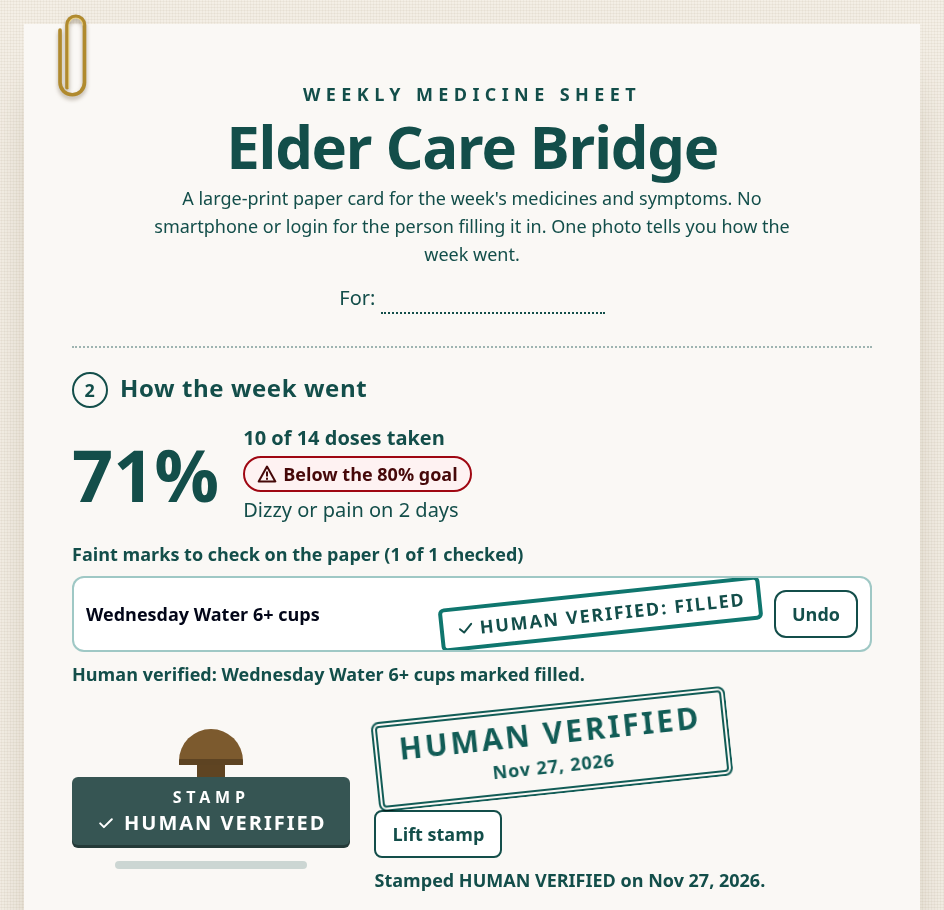
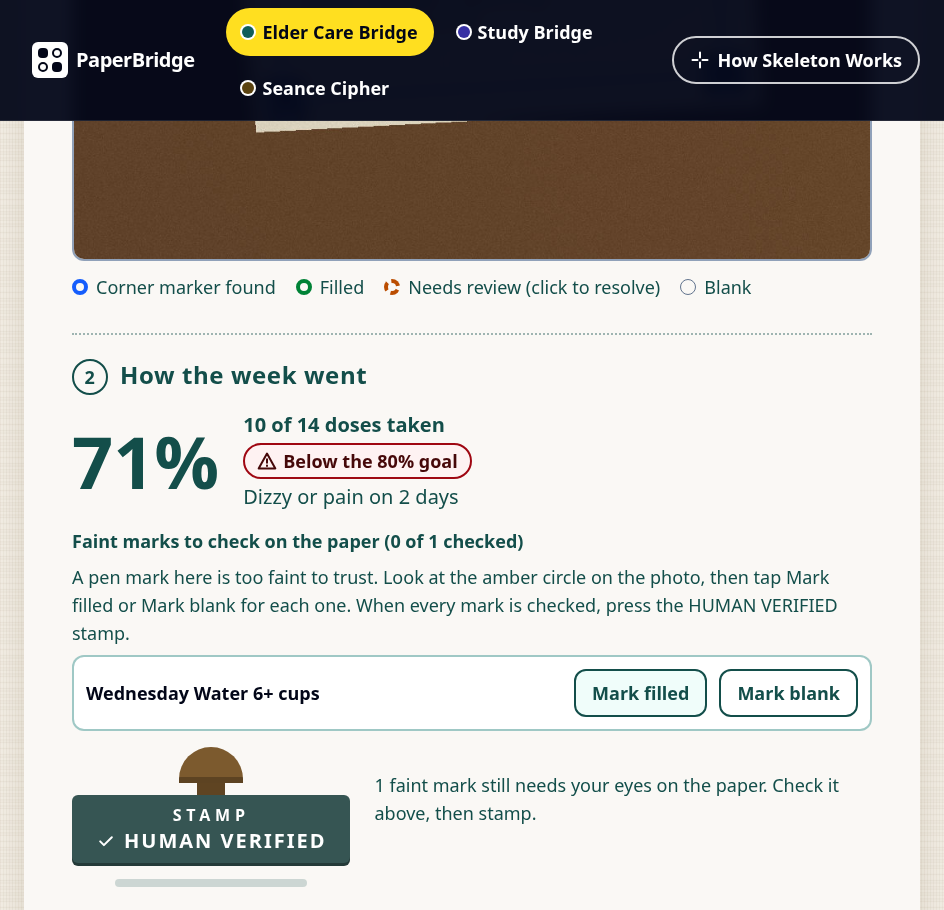
docs: first-time user audit, spec R60-R62, retaken screenshots

diff --git a/README.md b/README.md
@@ -6,6 +6,14 @@ Print a card, fill it in with a pen, take one photo. One shared optical engine r
 markers and a perspective unwarp, sends anything unclear to a person, and powers three very different full-screen
 apps plus a Kiro Crew App. Built for **Kiroween 2026: Skeleton Crew**.
 
+## The 60-second version
+
+- **The problem.** Paper forms still run clinics, classrooms and care at home. Apps that scan them either guess with AI or need special hardware.
+- **What it does.** Print a card, mark it with a pen, take one photo. PaperBridge finds the 4 corner squares, flattens the photo, and reads each bubble on your own device. No account, no upload, no extra hardware: a phone or webcam and a printer (or a sample card) is enough.
+- **Why it is not AI.** The reader is plain geometry and pixel counts, so the same photo always gives the same answer. A mark it cannot judge is shown to a person, who taps Mark filled or Mark blank. Nothing is guessed.
+- **What surprised us.** Letter prints were being read as A4 until a 50-photo test caught it. A pale fingertip reads only 0.30 to 0.45 as "covered", which became the Trembling Hand rule in the game. A first-time audit then showed that Elder Care and Study Bridge said nothing in words when a photo had no card in it (see [DETAILS](docs/DETAILS.md#first-time-user-audit-phase-13)).
+- **Kiro surfaces used.** Specs, steering, agent hooks, an MCP server, a scaffolder and a Kiro Crew App (table below).
+
 <!-- Demo video row, hidden until the video is uploaded. Paste it back into the table below the Live demo row:
 | **Demo video** | [Watch on YouTube](https://www.youtube.com/watch?v=VIDEO_ID) |
 -->
@@ -16,7 +24,7 @@ apps plus a Kiro Crew App. Built for **Kiroween 2026: Skeleton Crew**.
 | **Blog post** | [Building PaperBridge: An Offline-First Optical UI Skeleton for Elder Care with Kiro](https://dev.to/meena_n/building-paperbridge-an-offline-first-optical-ui-skeleton-for-elder-care-with-kiro-1h76) (DEV) |
 | **Social post** | [PaperBridge on X](https://x.com/MNoolu34434/status/2124436517087248756) |
 
-![Skeleton Home, the haunted drafting table: a friendly ghost guide above 3 tilted paper objects, a metal-clipped clipboard for Elder Care, a ruled school sheet with a red A+ for Study Bridge and an obsidian and gold oracle card for X-Ray Rite](docs/images/skeleton-home.png)
+![Skeleton Home, the haunted drafting table: a plain-language promise with 3 step chips, a friendly ghost guide, the amber demo button above the fold and 3 tilted paper objects, a metal-clipped clipboard for Elder Care, a ruled school sheet with a red A+ for Study Bridge and an obsidian and gold oracle card for X-Ray Rite](docs/images/skeleton-home.png)
 
 ## One skeleton, three frontends
 
@@ -30,9 +38,9 @@ All three are built from the same `src/core/` engine and the same `src/shell/` p
     <th width="33%"><a href="src/apps/seance-cipher/">Seance Cipher</a><br>X-Ray Rite, one-screen arcade</th>
   </tr>
   <tr>
-    <td><img src="docs/images/frontend-elder.png" alt="Elder Care Bridge: a single cream caregiver sheet on a linen desk with a brass paper clip, a large 71 percent result, a checked faint mark and a pressed HUMAN VERIFIED rubber stamp with its dated impression"></td>
+    <td><img src="docs/images/frontend-elder.png" alt="Elder Care Bridge: a single cream caregiver sheet on a linen desk with a brass paper clip, a large 71 percent result, a faint-mark check with a one-sentence hint naming the Mark filled and Mark blank buttons, and the HUMAN VERIFIED rubber stamp"></td>
     <td><img src="docs/images/frontend-study.png" alt="Study Bridge: ruled gradebook paper with a red margin line, red-ink score stamps, notebook tabs and pink and yellow highlighter topic bars"></td>
-    <td><img src="docs/images/frontend-seance.png" alt="X-Ray Rite: the whole game on one screen, a 3 by 4 rune launchpad with the Spider rune trembling in dashed crimson, a countdown ring, 3 lives and a ghostly status line"></td>
+    <td><img src="docs/images/frontend-seance.png" alt="X-Ray Rite: the whole game on one screen, a 3 by 4 rune launchpad with the Coffin rune trembling in dashed crimson, a countdown ring, 3 lives and a ghost coach saying to press down firmly and hold"></td>
   </tr>
   <tr>
     <td>One centred sheet of cream paper on linen, AAA contrast, with numbered fields instead of dashboard boxes. A big <b>HUMAN VERIFIED</b> rubber stamp that only works once every faint mark is checked. Print options and presets sit in a closed drawer.</td>
@@ -47,7 +55,7 @@ Seance Cipher is now an endless survival game on the same optical engine. Print 
 
 <table>
   <tr>
-    <td width="50%"><img src="docs/images/xray-rite-live.png" alt="Live webcam mode: a photographed 12-rune sheet with one rune ringed in dashed crimson, its cover reading 0.40, and a crimson timer bar"></td>
+    <td width="50%"><img src="docs/images/xray-rite-live.png" alt="Live webcam mode: a photographed 12-rune sheet with the glowing Pumpkin rune marked in gold, the 3 step chips in the HUD, a countdown ring and the ghost coach saying to cover the glowing rune"></td>
     <td width="50%"><img src="docs/images/xray-rite-sheet.png" alt="The printable X-Ray Rite 12-Rune Sheet: 12 blank circles in 3 rows of 4, each named above and drawn below"></td>
   </tr>
 </table>
@@ -59,7 +67,7 @@ Seance Cipher is now an endless survival game on the same optical engine. Print 
 ### Try it in 60 seconds (no printer needed)
 
 1. Open the [live demo](https://paperbridge-acvw.onrender.com/). On **Skeleton Home**, point at (or tab to) each paper and the ghost guide explains it. Then click **Run Mixed-Domain Auto-Route Demo**: one real card from each app is unwarped, X-Rayed and routed to its own app.
-2. Click **Seance Cipher**, then **Start the Rite**. Hold a lit rune's pad (or its key) to banish it, or tap it to feel the Trembling Hand. Let the timer run out three times for the Game Over receipt with its frozen X-Ray.
+2. Click **Seance Cipher**, then **Start the Rite**. A ghost coach tells you the next move: hold a lit rune's pad (or its key) to banish it, or tap it to feel the Trembling Hand. Let the timer run out three times for the Game Over receipt with its frozen X-Ray.
 3. Open **Elder Care Bridge**, load a sample and stamp the amber mark **Human Verified**, then print the adapted next-week card.
 4. Open **Study Bridge**, scan a quiz, then **Print Studio** for the Telugu or Hindi sheet and the quiz pack.
 
@@ -69,7 +77,7 @@ Seance Cipher is now an endless survival game on the same optical engine. Print 
 
 | Kiro feature | Where | What it does here |
 |---|---|---|
-| **Spec-driven development** | [`.kiro/specs/paperbridge/`](.kiro/specs/paperbridge/) | EARS [requirements](.kiro/specs/paperbridge/requirements.md) R1-R59, [design](.kiro/specs/paperbridge/design.md) decisions with measured numbers, and [tasks](.kiro/specs/paperbridge/tasks.md) 1-25, one task group per commit |
+| **Spec-driven development** | [`.kiro/specs/paperbridge/`](.kiro/specs/paperbridge/) | EARS [requirements](.kiro/specs/paperbridge/requirements.md) R1-R62, [design](.kiro/specs/paperbridge/design.md) decisions with measured numbers, and [tasks](.kiro/specs/paperbridge/tasks.md) 1-26, one task group per commit |
 | **Steering** | [`.kiro/steering/`](.kiro/steering/) | Always-on product rules, a `src/core/**` rule for the deterministic decoder, a `src/apps/**` rule for accessible thin apps |
 | **Agent hooks** | [`.kiro/hooks/`](.kiro/hooks/) | 5 hooks of 3 kinds: tests, sample regeneration and typecheck on save; a `PreToolUse` guard on the protected decoder; a `Stop` check for core boundaries and WCAG |
 | **MCP server** | [`mcp/`](mcp/) | Layout Validator: `validate_card_layout` and `list_registered_apps`, so Kiro checks a card before anyone prints it |
@@ -102,7 +110,7 @@ offline in the browser with no account or upload, and unclear marks go to a pers
 ```bash
 npm install
 npm run dev                                       # opens on Skeleton Home
-npm test                                          # 365 tests, including a 50-photo A4/Letter matrix
+npm test                                          # 517 tests, including a 50-photo A4/Letter matrix
 npm run create-app clinic-intake "Clinic Intake"  # your next app, ready to scan
 ```
 

diff --git a/docs/DETAILS.md b/docs/DETAILS.md
@@ -157,6 +157,22 @@ Real numbers from the simulated camera on the printed sheet: nothing on a circle
 
 The original 3-question **Oracle Cipher** card is kept in that drawer: the same 12 circles and card ID, story verdicts, the faint-mark human check, and the landing place for a card routed here from Skeleton Home. The obsidian `#0B0D12` and brass `#D4AF37` theme passes WCAG 2.2 AA.
 
+### First-time user audit (Phase 13)
+
+We opened Skeleton Home, Elder Care, Study Bridge and X-Ray Rite as a stranger would, in a real browser, and wrote down every place a smile would turn into a frown. The fixes are the highest-impact ones, each with a test. Nothing in `src/core/`, `riteEngine.ts` or the grading changed.
+
+| Friction found | Fix |
+|---|---|
+| Skeleton Home had no plain sentence about what it does, and the demo button was below the fold | A promise line ("No account, no upload, no AI guessing: anything it cannot read goes to a person"), 3 step chips (Print a card, Mark it with a pen, Snap one photo), and the demo button moved above the 3 worlds. It sits at 689 px of 900 px |
+| X-Ray Rite menu was a 110-word wall of numbers | 3 step cards (Watch the gold glow, Cover or hold the rune, Half-cover = Trembling Hand), 46 words. The exact scoring rules stay one tap away in a `<details>` |
+| A player who did nothing or only tapped got "Wave 1. Banish X. Go." | A ghost coach (`riteCoach.ts`, `CoachGhost.tsx`) with 6 moods says the exact next move for every state, with the key of each lit rune. The polite `role="status"` log stays for screen readers |
+| Quick taps made the rune tremble with no explanation | Every tremble line says to press down firmly; the receipt adds a tip such as "A quick tap only makes it tremble" |
+| Elder Care's faint-mark block never said what faint means | "Look at the amber circle on the photo, then tap Mark filled or Mark blank for each one", then the HUMAN VERIFIED stamp. The tone stays sober: no jokes about missed medicine |
+
+The mischief is restrained on purpose where the stakes are real (Elder Care) and loud where they are not (the game and Study Bridge). The corner guide is 4 amber brackets, hidden from screen readers; the ghost says the same thing in words.
+
+Verified in Chromium: axe-core (WCAG 2.0 to 2.2 A and AA) reports 0 violations on Skeleton Home, Elder Care (empty, result, notice), Study Bridge (empty, blank sheet) and X-Ray Rite (menu, active, no sheet); focus rings are 4 px; under reduced motion the coach does not animate (the hold bar rule is covered by a unit test); the game stage still fits at 1440x900, 1280x720 and 1024x768. Not verified: a real webcam, a real printer, and a phone-sized fit of the new coach row.
+
 ### Kiro Crew App (`crew-app/`)
 
 **PaperBridge Care Monitor** is a caregiver inbox inside Kiro Crew. It also lives in its own repo,
@@ -268,6 +284,10 @@ them. They found these bugs before any human saw a wrong answer:
 | axe-core and contrast tests on the Elder Care stamp | Dimming a pressed or locked stamp with `opacity` dropped its white text below AAA | A solid muted colour (`#365553`, 8.1:1) instead of opacity |
 | Contrast test on Study Bridge's green ink | `#166534` on the paper was 6.9:1, just under the 7:1 claimed | `#14532D` (10.1:1) |
 | Seance sample x 7 cameras x 2 papers | An A4 smudged Seance card read with the Letter layout showed 0 unclear marks (misplaced samples landed on blank paper), so "fewest unclear" picked the wrong paper | Score how dark each bubble's printed ring is through the homography and prefer the paper whose rings line up; on 98 photos the printed paper always wins, by at least 0.835 |
+| Stranger walkthrough of the 3 full-screen apps with a photo of an empty desk | Elder Care and Study Bridge showed only red pipeline steps: no visible words said what was wrong. The helpful text lived in `DecodeFacts`, which those pages do not use | `ScanProblem` shows a joke, the factual reason and the next tap in all 3 apps; `DECODE_ERROR_TEXT` is unchanged because `useOpticalScan` reads it for announcements |
+| Study Bridge with a blank sheet | A sheet with no marks graded as 0% with 4 weak topics and no explanation | `hasNoMarks` shows "Looks like an empty page!" and what to check; the grading is unchanged |
+| First hold on a launchpad pad | Nothing showed for the first 250 ms, so a hold felt like a dead button | Pads show a hold bar and a small press-in at once (`held`) |
+| Live camera pointed at an empty desk | The timer waited forever behind a small banner, with no way out | After 2 s with no sheet the coach scolds, shows **Switch to Launchpad** and amber corner brackets appear over the video |
 
 The tests also caught a mistake in our own expectations: we expected Sam's quiz to score
 50%, but the decoder correctly read 6 of 10 (60%). The test was fixed, not the decoder.

diff --git a/.kiro/specs/paperbridge/requirements.md b/.kiro/specs/paperbridge/requirements.md
@@ -320,3 +320,16 @@ PaperBridge turns a printed bubble card into structured data using deterministic
 ## R59. X-Ray Rite fits one screen (Phase 12)
 1. THE active game stage (live webcam or the 3 x 4 launchpad, the HUD and a countdown ring) SHALL fill the viewport below the launcher bar without scrolling at 1440x900, 1280x720 and 1024x768, however tall the launcher bar is. WHEN a hand trembles THE status line SHALL show a ghostly message that tells the player to cover the rune fully. Printing the 12-Rune Sheet and the classic Oracle reading SHALL be in one collapsed drawer.
 2. THE change SHALL leave `src/core/`, `src/shell/route.ts`, `src/shell/useOpticalScan.ts`, `src/shell/optical.tsx`, `src/shell/app-registry.ts` and `src/apps/seance-cipher/riteEngine.ts` unchanged, keep WCAG 2.2 AA contrast and 4 px focus rings, and use no em dashes.
+
+## R60. A stranger understands X-Ray Rite in under a minute (Phase 13)
+1. THE rules card SHALL show 3 steps (Watch the gold glow, Cover or hold the rune, Half-cover = Trembling Hand) in under 90 words, with the exact scoring rules in a collapsed `<details>`. WHILE a game runs THE HUD SHALL show the 3 steps as compact chips, replaced by the tremble hint while a hand trembles.
+2. A ghost coach SHALL say the exact next action for every state (menu, wave intro, active, trembling, banish, life lost, paused, game over), naming the key of each lit rune in digital mode. The polite `role="status"` log SHALL remain for screen readers.
+3. A pad that is held SHALL show a hold bar and a pressed look at once. WHEN the live camera sees no sheet for 2 s THE coach SHALL say so, a **Switch to Launchpad** button SHALL appear, and corner brackets SHALL show over the video. The receipt SHALL add a tip for a player who banished nothing or never grew a combo.
+
+## R61. Every app says what went wrong and what to tap next (Phase 13)
+1. WHEN a photo cannot be decoded THE 3 full-screen apps SHALL show a joke, the factual reason and the next tap (`ScanProblem`), and `DECODE_ERROR_TEXT` SHALL stay unchanged. WHEN a card is read but every bubble is blank Elder Care SHALL say no marks were read and to tell the care team if that is wrong, and Study Bridge SHALL say the page looks empty. Grading SHALL not change.
+2. Faint-mark checks SHALL carry a one-sentence hint that names the real buttons (Mark filled, Mark blank) and the HUMAN VERIFIED stamp. Elder Care SHALL stay sober about missed medicine.
+
+## R62. Skeleton Home explains itself above the fold (Phase 13)
+1. Skeleton Home SHALL state in one plain sentence what PaperBridge does (no account, no upload, no AI guessing, unreadable marks go to a person), show 3 numbered steps, and place the demo button before the 3 worlds so it is above the fold at 1440x900 and 1280x720. The guide's opening line SHALL tell the visitor what to do next.
+2. THE change SHALL leave `src/core/`, `src/shell/route.ts`, `src/shell/useOpticalScan.ts`, `src/shell/optical.tsx`, `src/shell/app-registry.ts` and `src/apps/seance-cipher/riteEngine.ts` unchanged, keep WCAG 2.2 AA contrast and 4 px focus rings, and use no em dashes.

diff --git a/.kiro/specs/paperbridge/design.md b/.kiro/specs/paperbridge/design.md
@@ -231,3 +231,11 @@ Verified against the Crew docs and the KiroCrew sources (`website/src/app-sdk/in
 - **Elder Care.** The shell's panels are not edited. `.care-sheet` CSS flattens any `section`, `details` or large rounded `div` inside the sheet into a dotted outline, so the shared components look like form fields. The stamp gates on `pending = unclear marks - checked`, the same number the decode pipeline uses. A locked or stamped stamp uses a solid colour, never opacity, so its text stays AAA.
 - **Study Bridge.** Ink colours are all at least 7:1 on #FCFBF7. Highlighter bars are `mix-blend-multiply` skewed blocks; the numbers and the words Review and Mastered carry the meaning. The workspace tabs keep their roving tabindex and arrow keys; only their CSS changes.
 - **X-Ray Rite.** The game section height is `100svh - launcher - header - drawer bar` with a minimum, and the stage inside it is `flex-1`, so the pads and the 16:9 video take what is left. The launcher bar wraps to 2 lines on narrow windows, so the page measures its own top offset and sets `--launcher`. `riteEngine.ts` is untouched: the ghostly lines are `riteVoice.ts`, which wraps `announceEvents` only for a tremble, picks a line from `(rune + wave)` so a replay reads the same, and leaves every other sentence exactly as the engine wrote it.
+
+## 24. Phase 13: first-time user audit
+- **Method.** Each surface was opened as a stranger in Chromium with 3 inputs: do nothing, tap, and upload a photo with no card. Findings drove the fixes; none were prescribed.
+- **Coach, not status text.** `riteCoach.ts` is a pure `coachFor(state)` with a fixed priority: what you must do (menu, game over, paused, no sheet, trembling), then what just happened (a banish or lost life for 3 s), then the next action. `RiteGame` only feeds it and shows the result in `CoachGhost`. The visible bubble is decoration plus words; the `sr-only` status log still announces events, so nothing is read twice.
+- **Hold feedback is local state.** `RiteGame` tracks `held` (pointer or key down) and passes it to `LaunchPad`; the engine still decides banish at 250 ms, so no rule moved.
+- **No-sheet fallback.** A 400 ms interval compares `now - lastSeen` with `NO_SHEET_MS` (2 s). It only sets a flag; the engine's own "camera lost the sheet, timer waits" rule is unchanged.
+- **Shared notices.** `FriendlyNotice.tsx` holds `ScanProblem`, `PROBLEM_COPY` and `hasNoMarks`. The factual text still comes from `DECODE_ERROR_TEXT`, which `useOpticalScan` reads, so it was not edited. `hasNoMarks` is a UI check on the decoded result and does not touch grading.
+- **Home.** The demo button moved above the artifacts, the h1 lost its `lg:text-7xl` size, and the stage gaps tightened. On a 390 px phone the promise is above the fold and the button needs one scroll (accepted).

diff --git a/.kiro/specs/paperbridge/tasks.md b/.kiro/specs/paperbridge/tasks.md
@@ -170,3 +170,11 @@ Requirement references use the numbering in `requirements.md`.
   - [x] 25.4 X-Ray Rite one-screen stage, countdown ring, drawer, `riteVoice.ts` _(R59)_
   - [x] 25.5 Tests: Skeleton Home, caregiver sheet and stamp, gradebook, ghost voice, one-screen layout; browser audit (axe-core, keyboard, reduced motion, fit at 3 sizes, 390 px) _(R56-R59)_
   - [x] 25.6 Retaken screenshots, README, DETAILS _(R55.2)_
+
+- [x] 26. Phase 13: first-time user audit (branch `feat/judge-aligned-polish`)
+  - [x] 26.1 Stranger walkthrough of Home, Elder Care, Study Bridge and X-Ray Rite in Chromium; list of friction _(R60-R62)_
+  - [x] 26.2 `riteCoach.ts`, `CoachGhost.tsx`, 3-step cards and chips, hold feedback, no-sheet fallback, receipt tip; `riteVoice.ts` lines _(R60)_
+  - [x] 26.3 `FriendlyNotice.tsx`, `HumanVerifyControl` hint, Elder Care and Study Bridge notices _(R61)_
+  - [x] 26.4 Skeleton Home promise, steps, order and guide line _(R62)_
+  - [x] 26.5 Tests (38 new): coach, notices, first-minute UI, home; axe-core, keyboard, reduced motion and fit re-checked in Chromium
+  - [x] 26.6 Retaken screenshots, README, DETAILS
